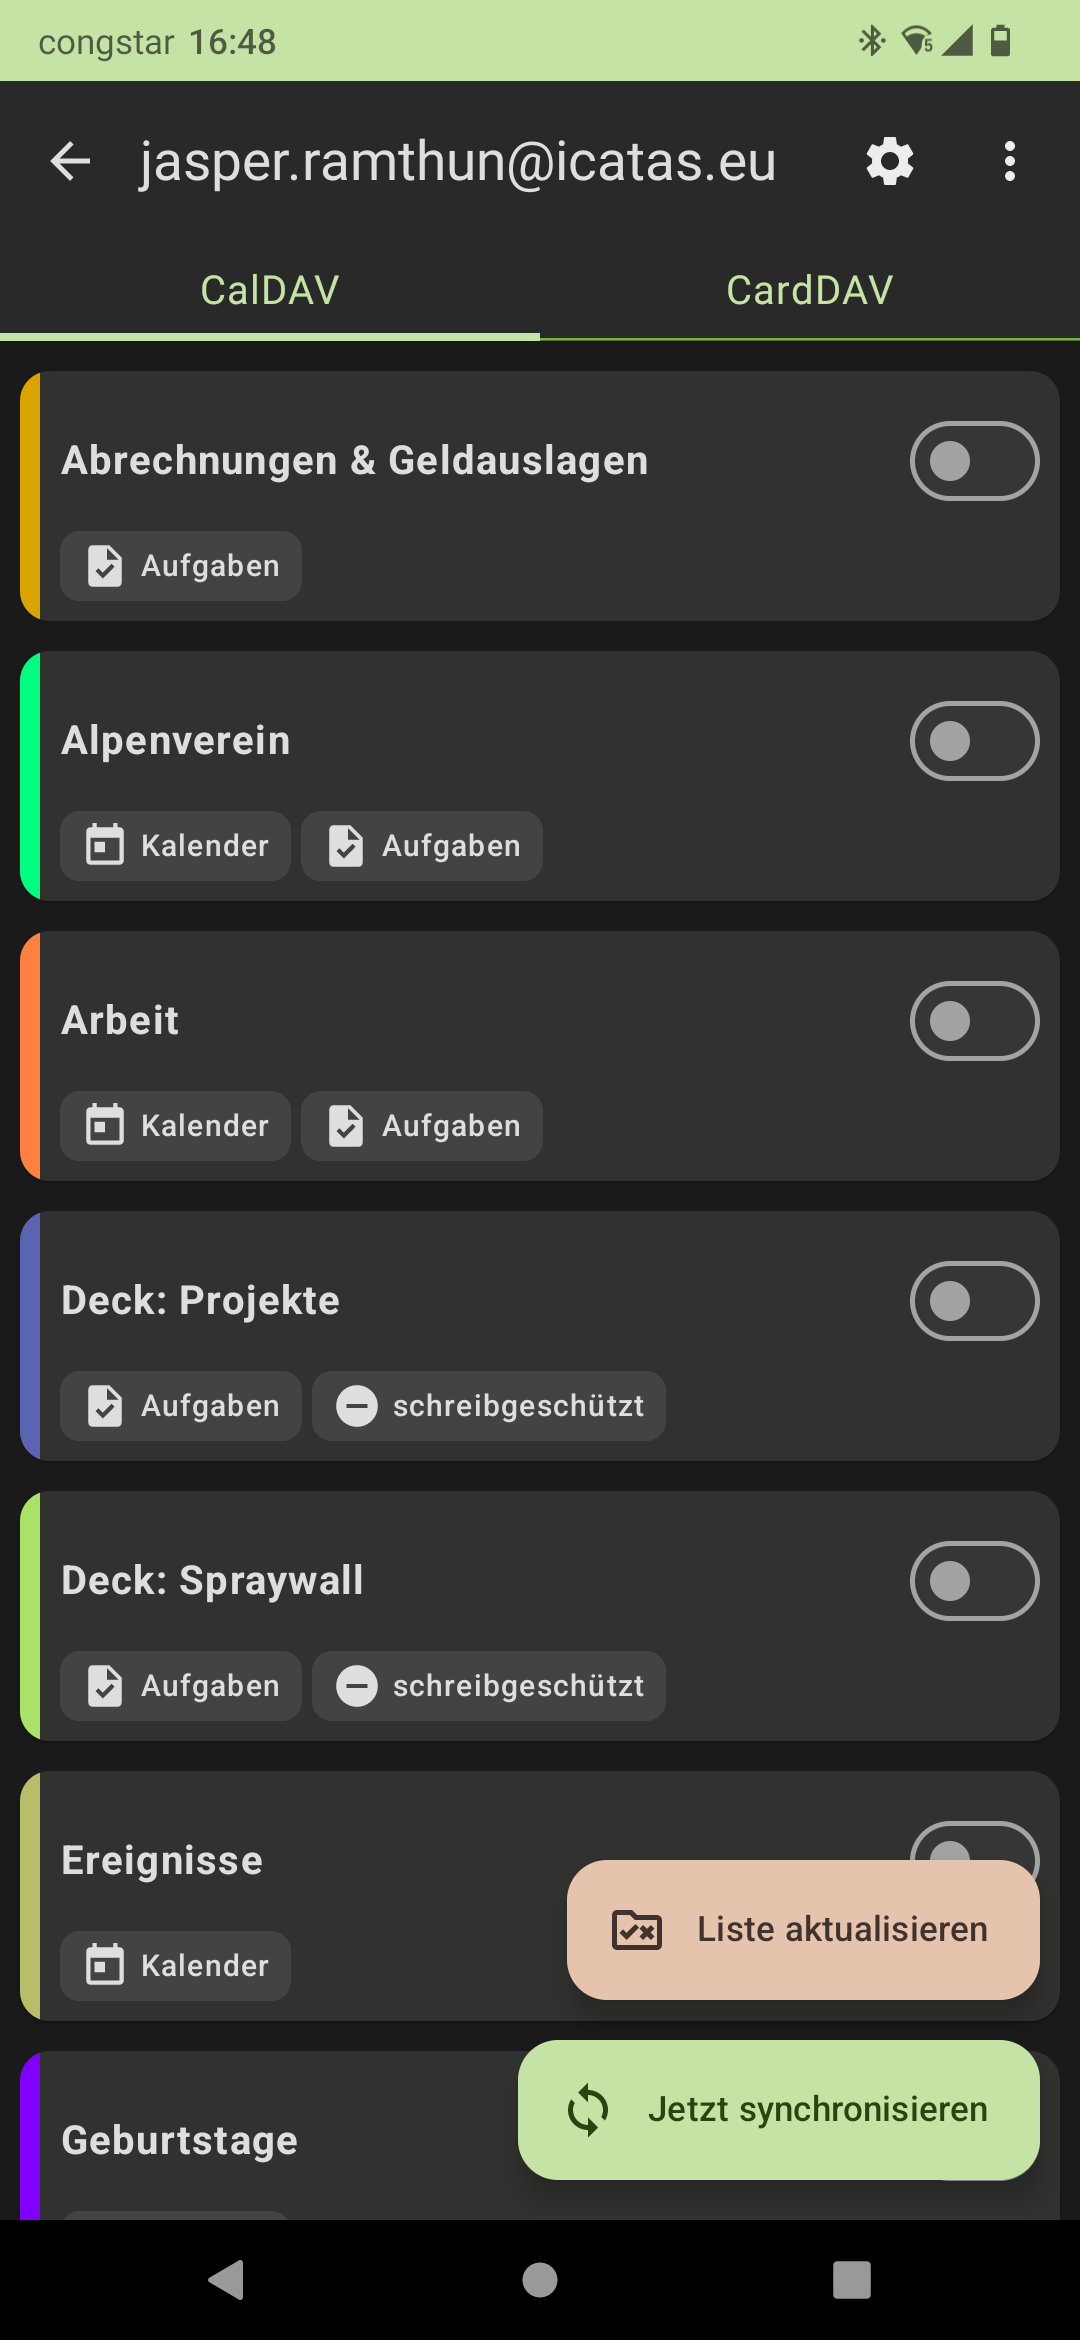
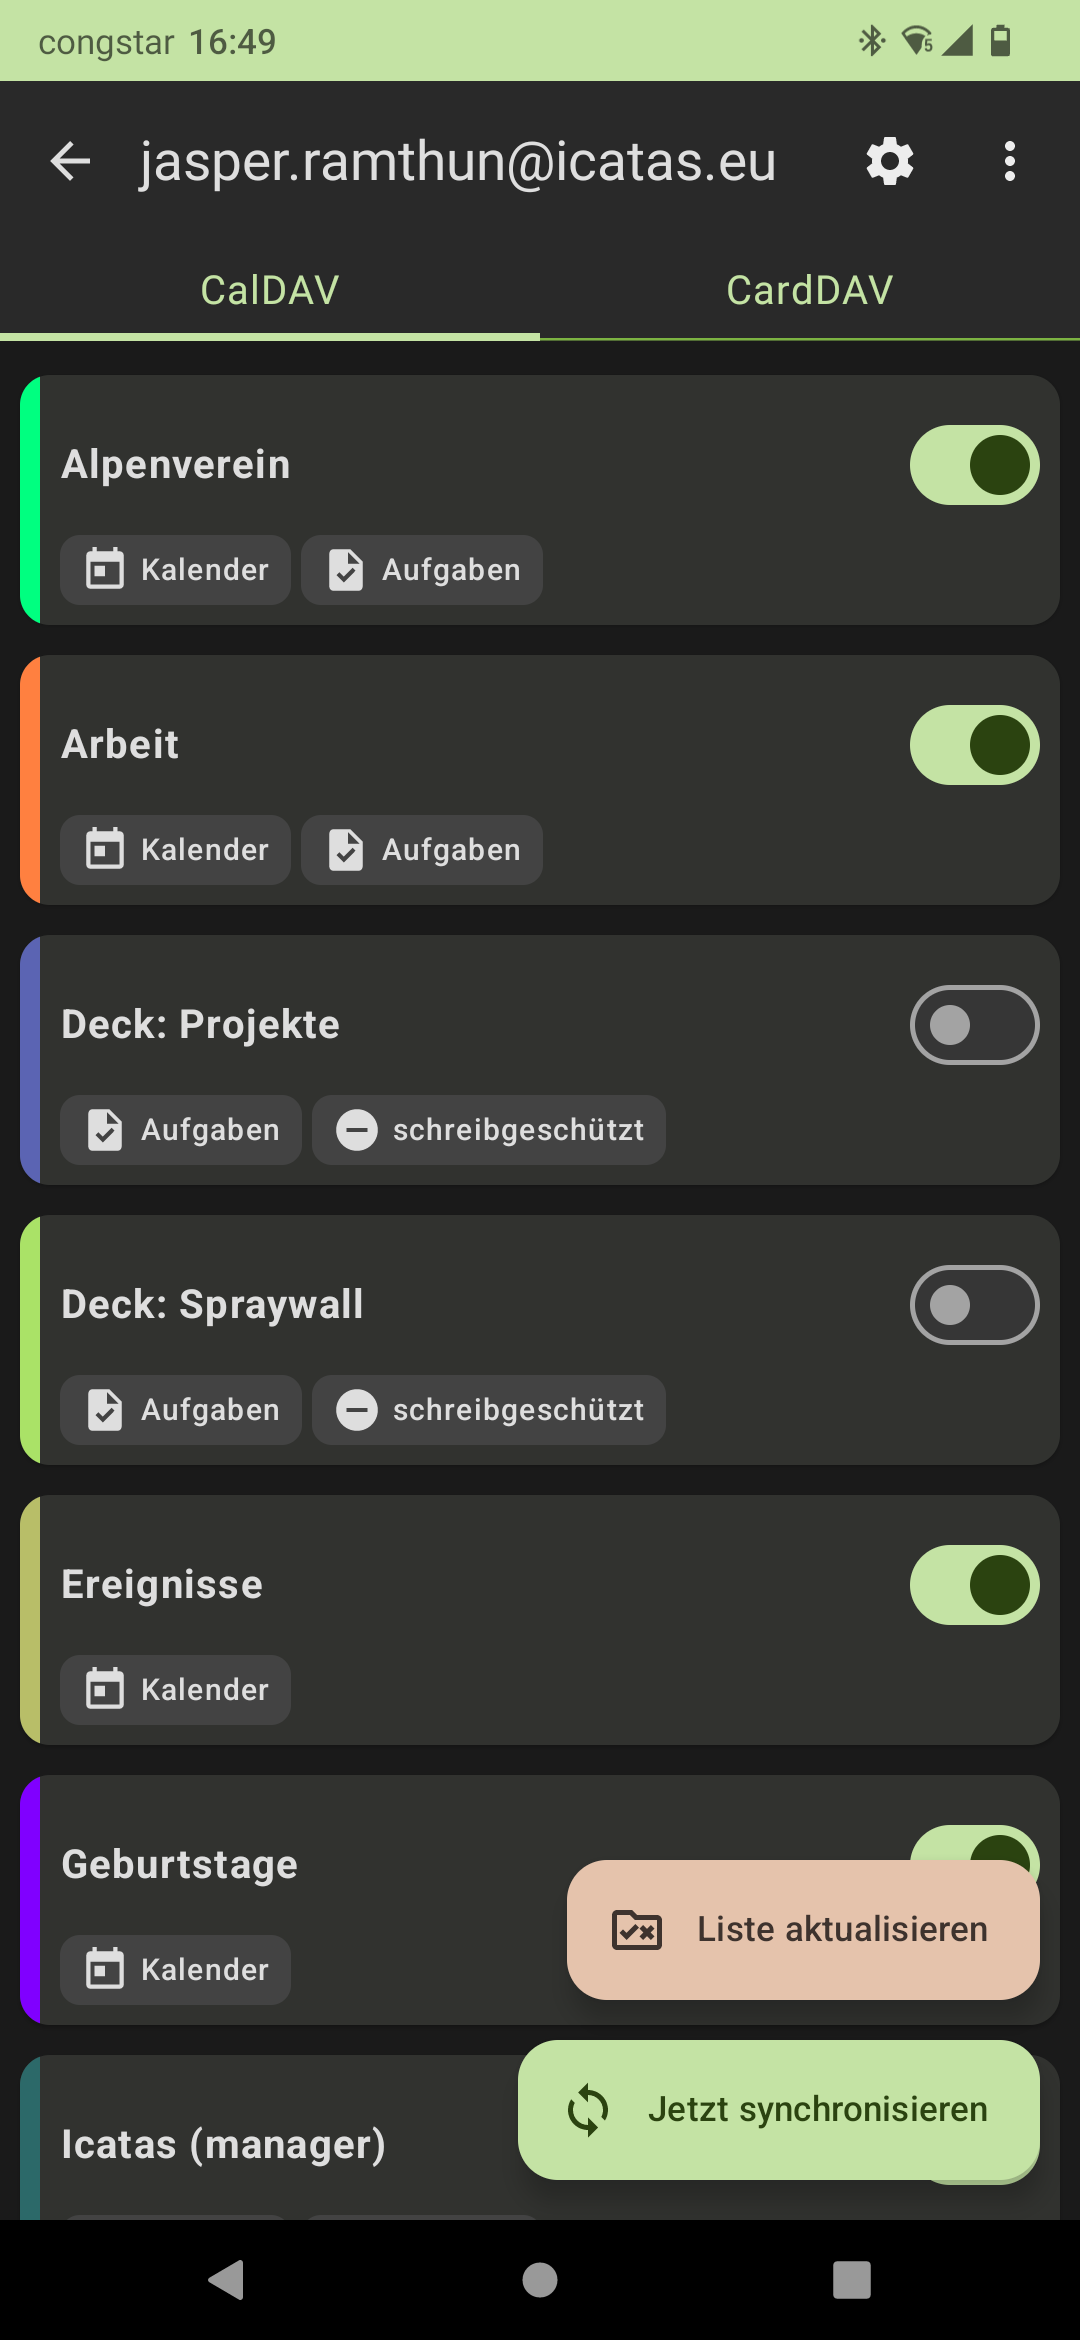
completed android documentation

diff --git a/android/nextcloud-android.md b/android/nextcloud-android.md
@@ -220,22 +220,35 @@ auf den Buttom *Grand access* tippst (Abb. 3.5 mitte).
 11. Wenn die Anmeldung erfolgreich war erscheint *Account connected*. Tippe nun auf as X oben links (
 Abb. 3.5 rechts) um zum Einrichtungsassistenten zurück zu gelangen.
 
-12. Gibt unter *Konto hinzufügen* eine E-Mail Adresse als Nutzernamen ein. Diese E-Mail Adresse mit nicht
-mit deiner Nextcloud verbunden sein. Statt einer E-Mail Adresse 
-
+12. Gibt unter *Konto hinzufügen* eine E-Mail Adresse als Nutzernamen ein. Diese E-Mail Adresse muss nicht
+mit deiner Nextcloud verbunden sein.
 	<br />
 	<center>
 	<img src="screenshots/nc_android_29.png" alt="" height="400">
 	<img src="screenshots/nc_android_30.png" alt="" height="400">
 	<img src="screenshots/nc_android_31.png" alt="" height="400">
-	<p>**Abbildung 3.5**</p>
+	<p>**Abbildung 3.6**</p>
 	</center>
 	<br />
 
+13. Tippe auf *Konto anlegen*. Auf der nächsten Seite kann zwischen den Reitern *CalDAV* und *CardDAV*
+ausgewählt werden (Abb. 3.6 mitte/rechts) und die gewünschten Kalender und Adressebücher können für die 
+Syncronisation ausgewählt werden. Tippe auf *Jetzt syncronisieren*, damit die Kalender und Adressbücher
+in den entsprechenden Kalender und Kontakt Apps verfügbar sind.
 
+	<br />
+	<center>
+	<img src="screenshots/nc_android_33.png" alt="" height="400">
+	<img src="screenshots/nc_android_34.png" alt="" height="400">
+	<p>**Abbildung 3.7**</p>
+	</center>
+	<br />
 
-
-
+14. Wenn alles gekappt hat, sollten die Adressbücher in der Kontaktapp deines Geräts wie in Abb. 3.7
+neben mind. einem weiteren Google-Konto als *DAVx⁵-Adressbuch* unter *Konten* auftauchen. Die Einbindung
+in deine Kalender-App kann je nach App etwas unterschiedlich aussehen. In der hier verwendeten App
+muss die CalDAV Syncronisation noch in den Einstellungen aktiviert werden, ansonsten sollten die
+in Schritt 13 ausgewählten Kalender hier verfügbar sein.
 
 
 
